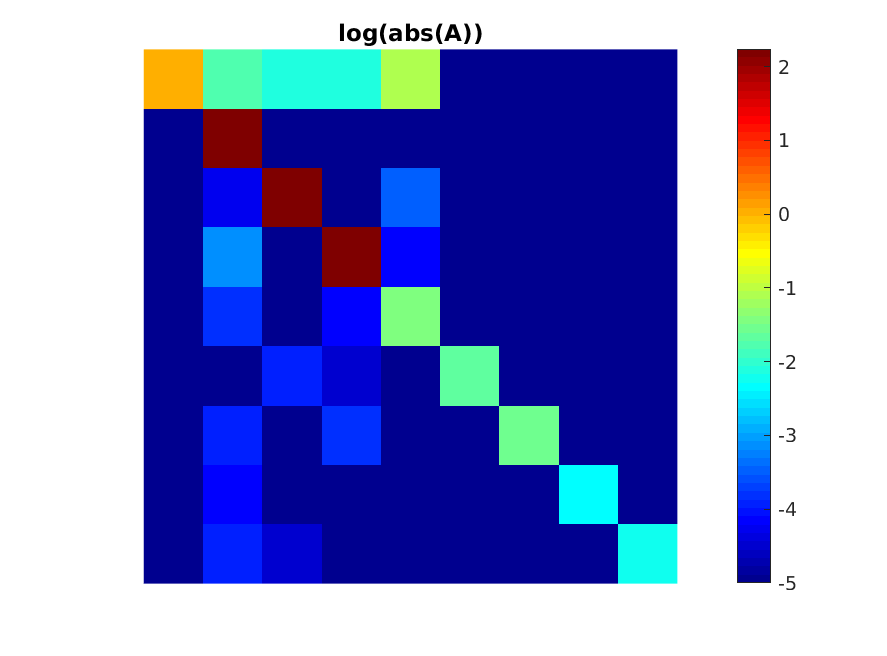
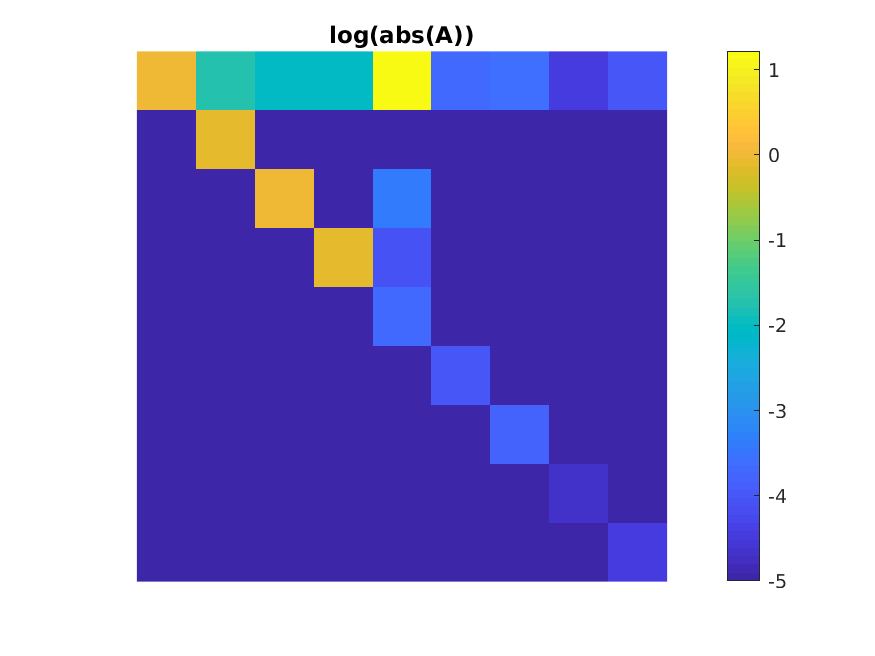
On branch develop 	modified:   +shim/getcalmatrix.m 	modified:   README.md 	modified:   doc/A.png 	modified:   examples/demoWLS.m

diff --git a/examples/demoWLS.m b/examples/demoWLS.m
@@ -4,31 +4,49 @@
 % 
 % Goal is to calculate shim setting changes s that minimize the weighted RMS B0 inhomogeneity.
 % Provided here as an example; other loss functions may be more useful depending on the application.
-%
-% Inputs:
-%   f0     [N 1]      (Hz) Phase-unwrapped 3D fieldmap. N = number of voxels ('control points').
-%   H      [N 9]      SH basis matrix, evaluated at the same spatial locations (control points) as f0.
-%   A      [9 9]      shim calibration matrix. See getcalmatrix.m
-%   W      [N N]      optional sparse diagonal weighting matrix. Default = diag_sp(ones(N,1)) (from MIRT toolbox)
-% 
-% Output:
-%   s      [9 1]      change in shim settings from the baseline settings used to acquire f0
-%                     s(1) is the B0 frequency offset (Hz)
-%                     s(2:9) are the linear and 2nd order shim amplitude changes in hardware units (e.g., mA)
-%   f      [N 1]      predicted fieldmap after applying s (f = H*A*s + f0)
 
 addpath ..   % path to +shim package
 
-% load calibration matrix
-load A
+
+%% Calculate calibration matrix A
+
+% load calibration data
+load Ffull                             % [nx ny nz 8]  (does not include DC offset term)
+[nx, ny, nz, nShim] = size(Ffull);
+FOV = 19.8*[1 1 1];   % cm
+
+% generate mask
+mask = sum(abs(Ffull),4) > 10;         % [nx ny nz]     
+N = sum(mask(:));
+
+% create F by applying mask 
+F = zeros(N, nShim);
+for ii = 1:nShim
+	tmp = Ffull(:,:,:,ii);
+	F(:,ii) = tmp(mask);   % [N 8]
+end
+
+% specify shim amplitudes (differences) used to obtain F (hardware units)
+S = diag([20*ones(1,3) 100*ones(1,5)]);  % do not include DC term
+
+% Get spherical harmonic basis
+[X,Y,Z] = shim.getgrid(nx,ny,nz,FOV);
+H = shim.getSHbasis(X(mask),Y(mask),Z(mask));   % [N 9]
+
+% Calculate calibration matrix A
+% F and S do NOT include the DC term, i.e., F: [N 8], S: [8 8]
+A = shim.getcalmatrix(F, H, S)
+
+
+%%  Perform 2nd order shimming using A
 
 % synthesize noisy fieldmap f0 = [N 1]
-nx = 64; ny = 64; nz = 9;
-FOV = [20 20 5];
+nx = 60; ny = 60; nz = 20;
+FOV = [20 20 8];   % cm
 [X,Y,Z] = shim.getgrid(nx,ny,nz,FOV);
 H = shim.getSHbasis(X(:),Y(:),Z(:));   % [N 9]
-s(1:4) = randn([1 4]);
-s(5:9) = randn([1 5]);
+s(1:4) = 10*randn([1 4]);
+s(5:9) = 20*randn([1 5]);
 R = sqrt(X(:).^2+Y(:).^1.5);
 f0 = 10*H*A*s(:)./(10+R.^1.5);
 f0 = f0 + randn(size(f0))*max(f0(:))/10;

diff --git a/+shim/getcalmatrix.m b/+shim/getcalmatrix.m
@@ -15,14 +15,18 @@ function A = getcalmatrix(F, H, S)
 % Output:
 %   A    [9 9]      calibration matrix (includes DC term), expressed in hardware units
 
-% Add DC term to S and F
-Sfull = zeros(9,9);
-Sfull(2:end,2:dn) = S;
-S = Sfull; 
+N = size(F,1);
+
+% Add DC offset term (column) to F and S
+% We do it here so the user doesn't have to remember to do it.
 F = [ones(N,1) F]; 
+Sin = S;
+S = zeros(9);
+S(1,1) = 1;
+S(2:end,2:end) = Sin;
 
 % get A
-A = inv(C'*C)*C'*F*inv(S);                    % [9 9]
+A = inv(H'*H)*H'*F*inv(S);                    % [9 9]
 %A = inv(C'*W*W*C)*C'*W*W*F*inv(S);             % [9 9]
 
 return

diff --git a/README.md b/README.md
@@ -22,7 +22,7 @@ s:  [nShim 1]          change in shim current amplitudes from baseline (hardware
 For 2nd order shim systems (e.g., GE MR750), we have
 ```
 nShim = 9
-H = [1 x y z z2 xy zx x2-y2 zy] 
+H = [1 x y z z2 xy zx x2-y2 zy]
 ```
 where each term in `H` is an `[N 1]` vector, evaluated at the same `N` spatial locations as `f`. 
 The first column corresponds to the DC (spatially invariant) offset.
@@ -59,13 +59,13 @@ Example:
 >> A = getcalmatrix(F, H, S);
 ```
 
-`A` should be close to diagonal.
 As an example, here is the calibration matrix obtained on a GE 3T scanner:
-
 <img src="doc/A.png" alt="Example calibration matrix" width="400"/>
 
 
 ## How to perform 2nd order shimming
+
+See also ./examples/demoWLS.m.
 
 1. Acquire a baseline fieldmap `f0`. This does not need to use the same matrix size or FOV as the calibration scan.
 2. Define a binary `mask` (control points), and reshape `f0` to `[N 1]` where `N = numel(X(mask))`
